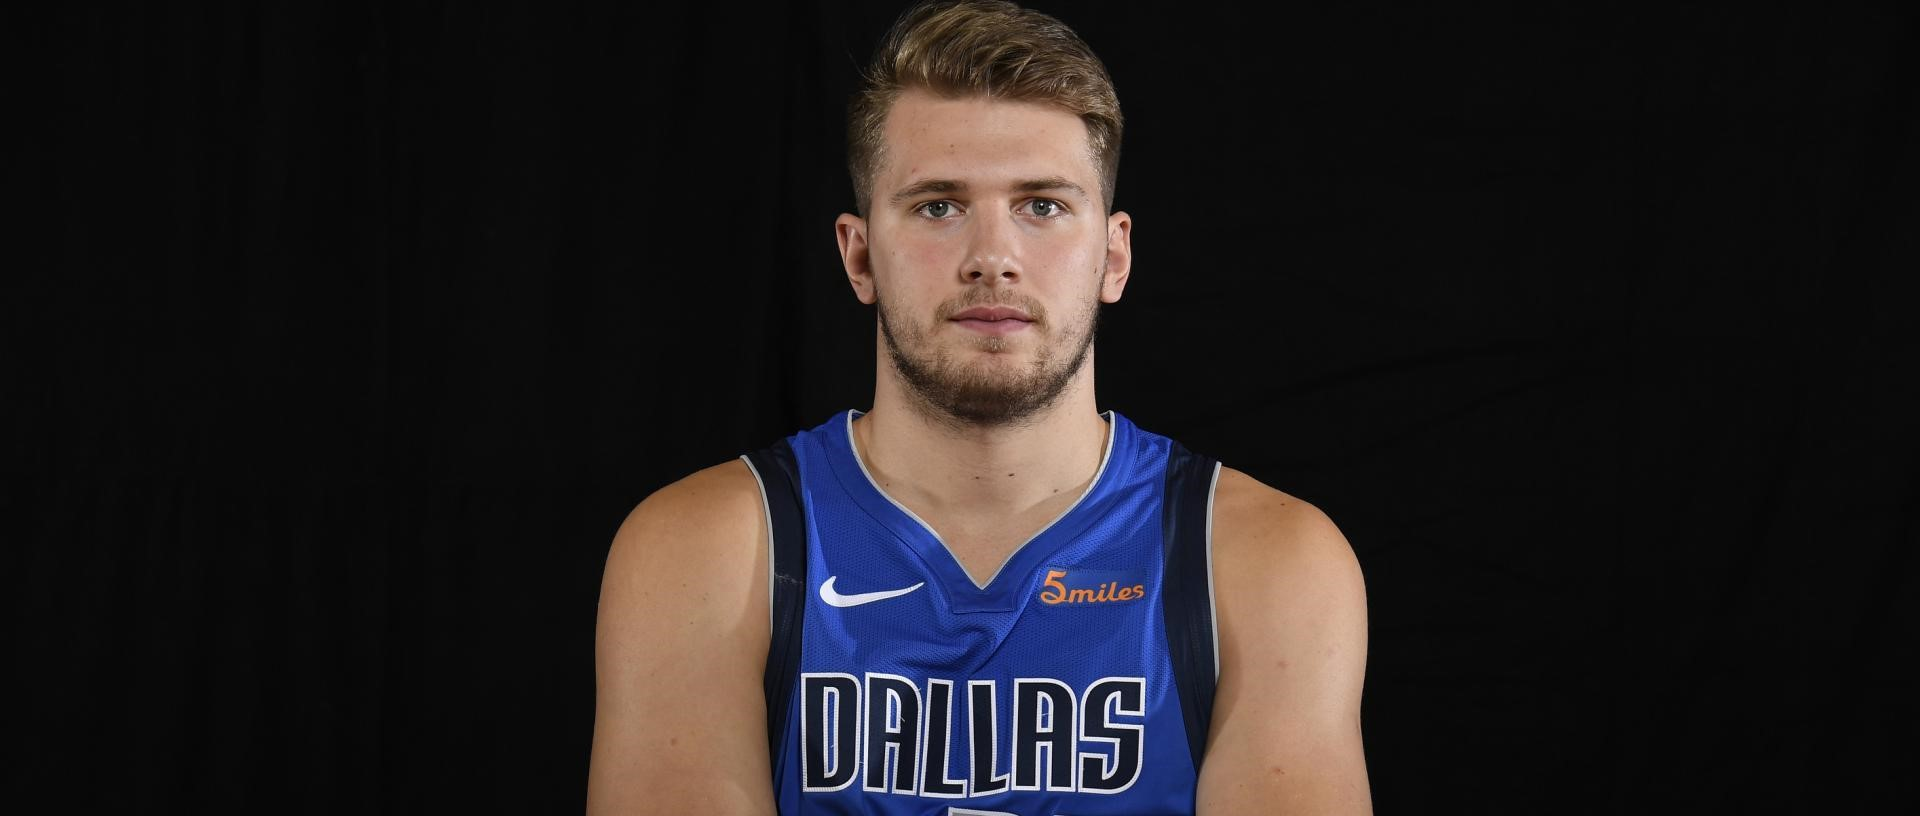
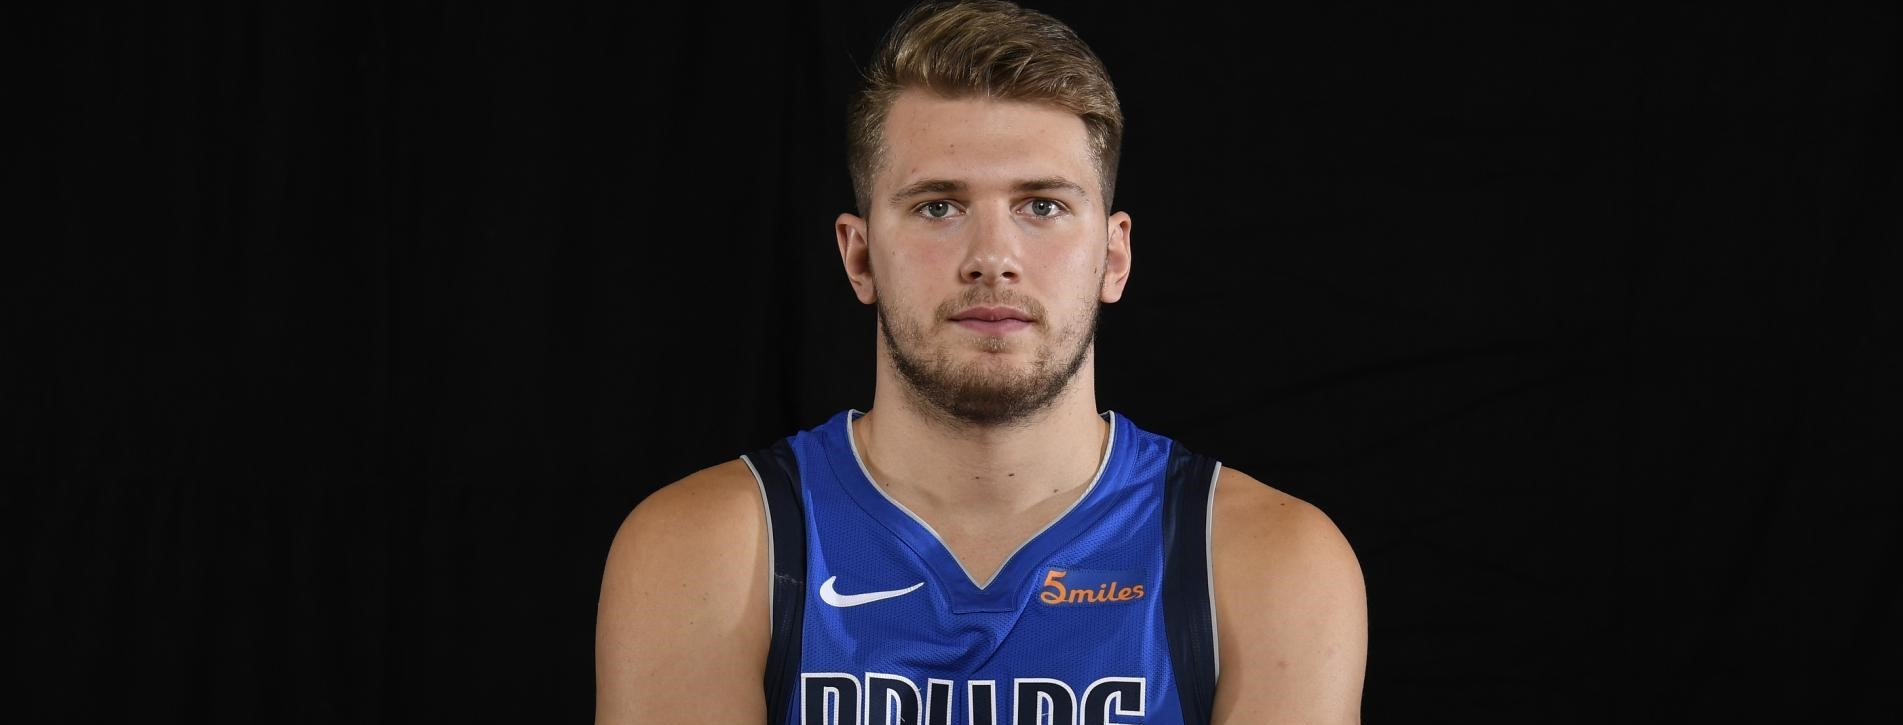
obrezal spet

Changed region(s): [[0.279, 0.0, 0.7441, 1.0]]

diff --git a/Views/zacetna_stran.html b/Views/zacetna_stran.html
@@ -11,7 +11,7 @@
     <div class="carousel-inner">
       <div class="carousel-item active">
         <div class="container">
-          <img src="https://github.com/andrazdeluisa/NBA.stats/blob/master/Slike/Toronto_blur.jpg?raw=true" width="100%" height="500p" role="img" alt="Toronto"\>
+          <img src="https://github.com/andrazdeluisa/NBA.stats/blob/master/Slike/RAPTORS_obrezan.jpg?raw=true" width="100%" height="500p" role="img" alt="Toronto"\>
           <div class="carousel-caption text-left">
             <h1>Prvaki: Toronto Raptors</h1>
             <p>V finalu lige NBA je ekipa Toronta s 4-2 premagala Buckse iz Milwaukeeja. MVP finala je postal Kawhi Leonard (TOR).</p>
@@ -19,7 +19,7 @@
         </div>
       </div>
       <div class="carousel-item">
-        <img src="https://github.com/andrazdeluisa/NBA.stats/blob/master/Slike/Giannis_blur.jpg?raw=true" width="100%" height="50%" alt="Giannis"\>
+        <img src="https://github.com/andrazdeluisa/NBA.stats/blob/master/Slike/Giannis_obrezan.jpg?raw=true" width="100%" height="500p" alt="Giannis"\>
         <div class="container">
           <div class="carousel-caption">
             <h1>MVP rednega dela: Giannis Antetokounmpo</h1>
@@ -28,7 +28,7 @@
         </div>
       </div>
       <div class="carousel-item">
-          <img src="https://github.com/andrazdeluisa/NBA.stats/blob/master/Slike/Luka_blur.jpg?raw=true" width="100%" height="50%" alt="Donko"\>
+          <img src="https://github.com/andrazdeluisa/NBA.stats/blob/master/Slike/Luka_obrezan.jpg?raw=true" width="100%" height="500p" alt="Donko"\>
         <div class="container">
           <div class="carousel-caption text-right">
             <h1>ROTY: Luka Dončić</h1>
